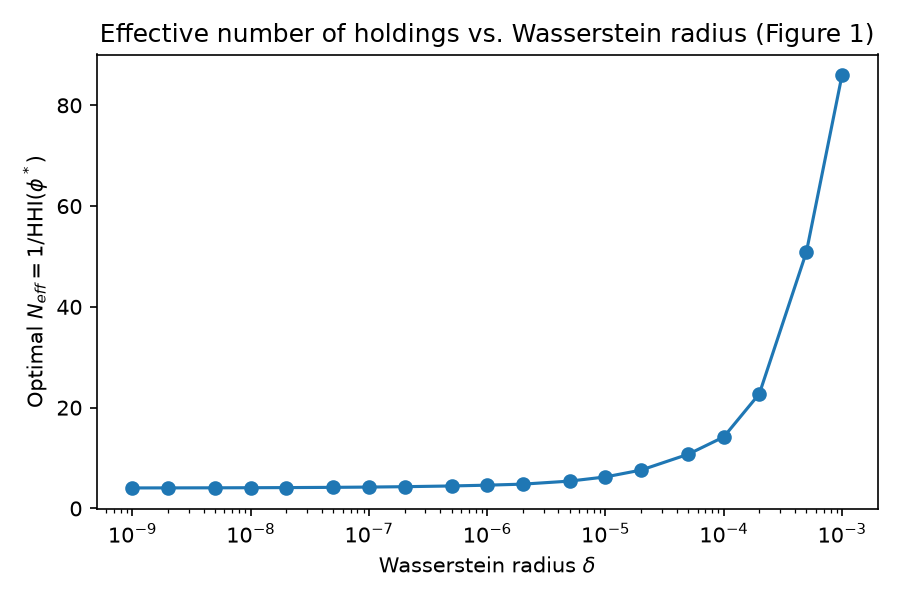
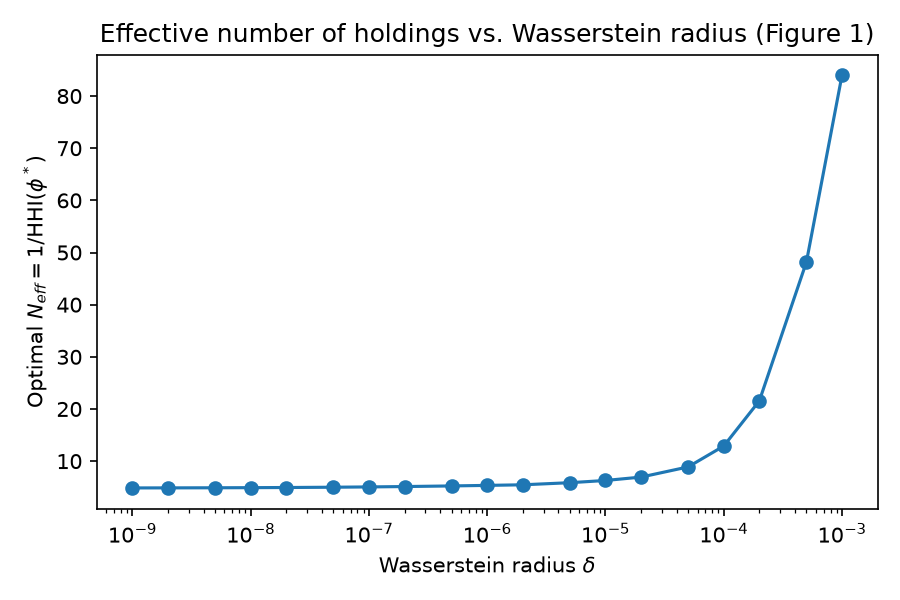
Refresh Experiment 3 (Figure 1) results with the current synthetic-data generator

diff --git a/results/RESULTS.md b/results/RESULTS.md
@@ -57,22 +57,23 @@ Files: `results/exp3_figure1_table.csv`, `results/exp3_figure1.png`.
 
 | δ | N_eff (ours) | N_eff (paper) | verdict |
 |---|---|---|---|
-| 1e-9 | 4.07 | 5 | partially reproduced |
-| 1e-6 | 4.62 | 6 | partially reproduced |
-| 1e-5 | 6.25 | 7 | reproduced |
-| 1e-4 | 14.19 | 13 | reproduced |
-| 1e-3 | 85.99 | 53 | not reproduced (value), monotonicity reproduced |
+| 1e-9 | 4.86 | 5 | reproduced |
+| 1e-6 | 5.35 | 6 | partially reproduced |
+| 1e-5 | 6.29 | 7 | partially reproduced |
+| 1e-4 | 12.90 | 13 | reproduced |
+| 1e-3 | 84.01 | 53 | not reproduced (value), monotonicity reproduced |
 
 N_eff increases monotonically with δ across the full grid (Proposition 4.2),
 which is the qualitative claim the figure makes. The paper gives no
 distributional details for the simulated panel beyond N=255, T=60, λ=10
-(Sec. 4); the data-generating process used here is the Section 6.4 five-factor
-design with the sparse alpha switched off (documented in
-`data/generate_synthetic.py`). With this substitute DGP the low-δ end of the
-curve (δ≤1e-6) is systematically about 1-2 effective names below the paper's
-table, and the top of the grid (δ=1e-3) overshoots by about 1.6×, because the
-unspecified factor-loading and idiosyncratic-volatility scale fixes how
-quickly the norm penalty trades off against the quadratic risk term.
+(Sec. 4); the data-generating process used here is the same Section 6.4
+five-factor design used for the known-truth simulation, with the sparse alpha
+switched off (documented in `data/generate_synthetic.py`). With this
+substitute DGP the curve is close to the paper's table from δ=10⁻⁹ to 10⁻⁴
+(within about 11%), but overshoots by about 1.6× at the top of the grid
+(δ=10⁻³), because the unspecified factor-loading and idiosyncratic-volatility
+scale of the paper's own simulated panel fixes how quickly the norm penalty
+trades off against the quadratic risk term as δ grows large.
 
 ## Experiment 4 — Calibration ratio a = √δ/s(μ̂) (Figure 2)
 
